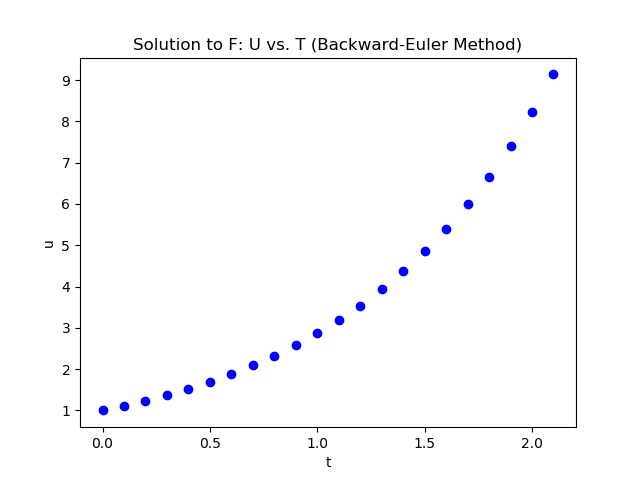
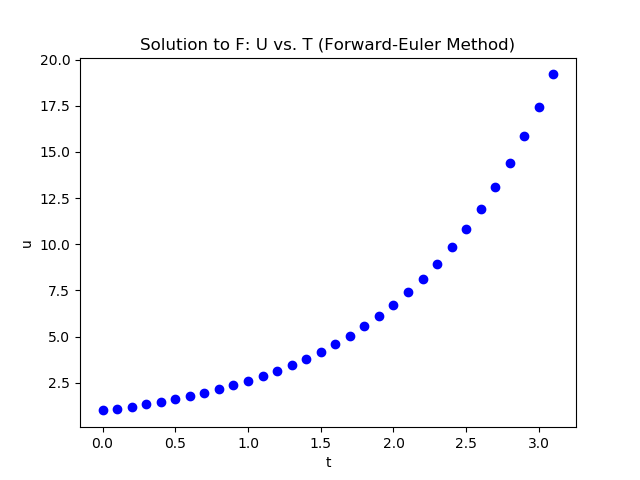
loopable

diff --git a/odesolver_cml_loopable.py b/odesolver_cml_loopable.py
@@ -1,0 +1,135 @@
+'''
+CS 101 James Scholar Project
+Exercise E.4: Solve an ODE specified on the command line
+
+By Kenneth Tochihara
+'''
+
+#------------------------------------------------------------------------------#
+# Libraries utilized                                                           #
+#------------------------------------------------------------------------------#
+from scitools.StringFunction import StringFunction
+from scipy.optimize import newton
+import numpy as np
+import matplotlib.pyplot as plt
+
+
+#------------------------------------------------------------------------------#
+# Constants using in the program                                               #
+#------------------------------------------------------------------------------#
+
+#Establishing method solve types
+methods = {
+    'fe' : "Forward-Euler Method",
+    'mp' : "Midpoint Method",
+    '2rk': "2nd-Order Runge-Kutta Method",
+    '4rk': "4th-Order Runge-Kutta Method",
+    '3ab': "3rd-order Adams-Bashforth Method",
+    'be' : "Backward-Euler Method"
+}
+
+ans = "y"
+
+#------------------------------------------------------------------------------#
+# Defining the functions utilized in this program                              #
+#------------------------------------------------------------------------------#
+
+# Setting functions for the different methods
+def forwardEuler(u0, f):
+    u = [u0]
+    for i in range(len(arrT)-1):
+        u.append(u[i] + dt * float(f(u[i], arrT[i])))
+    return u
+
+def midPoint(u0, f):
+    u = [u0]
+    for i in range(len(arrT)-1):
+        us = u[i] + dt * float(f(u[i], arrT[i]))
+        u.append(u[i] + (0.5 * dt * float(f(u[i], arrT[i]))) + (0.5 * dt * float(f(us, arrT[i+1]))))
+    return u
+
+def rungeKutta2(u0, f):
+    u = [u0]
+    for i in range(len(arrT)-1):
+        k1 = dt * float(f(u[i], arrT[i]))
+        k2 = dt * float(f(u[i] + 0.5 * k1, arrT[i] + 0.5 * dt))
+        u.append(u[i] + k2)
+    return u
+
+def rungeKutta4(u0, f):
+    u = [u0]
+    for i in range(len(arrT)-1):
+        k1 = dt * float(f(u[i], arrT[i]))
+        k2 = dt * float(f(u[i] + 0.5 * k1, arrT[i] + 0.5 * dt))
+        k3 = dt * float(f(u[i] + 0.5 * k2, arrT[i] + 0.5 * dt))
+        k4 = dt * float(f(u[i] + k3, arrT[i] + dt))
+        u.append(u[i] + (1/6) * (k1 + 2*k2 + 2*k3 + k4))
+    return u
+
+def adamBashforth3(u0, f, N):
+    u = [u0]
+    for i in range(len(arrT)-1):
+        v = [u[i]]
+        for j in range(N-1):
+            v.append(u[i] + (1/5) * dt * (float(f(v[j], arrT[i+1])) + float(f(u[i], arrT[i]))))
+        u.append(v[N-1])
+    return u
+
+def backwardEuler(u0, f):
+    def findU(x):
+        return u[i] + f(x, arrT[i]) * dt - x
+
+    u = [u0]
+    for i in range(len(arrT)-1):
+        u.append(newton(findU, u0))
+    return u
+
+while ans == "y":
+
+    # Taking in the values
+    f    = StringFunction(input("f(u, t) =  "), independent_variables=('u','t'))
+    u0   = float(input("u0 =  ")) #initial condition
+    dt   = float(input("dt = "))  #time step
+    T    = float(input("T = "))   #Final time of simulation
+    type = str(input("Solve Method: "))
+
+    #Initializing the u array, arrU and time array, arrT
+    arrU = []
+    currentT = 0
+    arrT = [currentT]
+    while (currentT < T) or (np.isclose(currentT, T)):
+        currentT += dt
+        arrT.append(currentT)
+
+#------------------------------------------------------------------------------#
+# Deciding which method to use (Forward-Euler is default)                      #
+#------------------------------------------------------------------------------#
+
+    if   ('fe'  == type):
+        arrU = forwardEuler(u0, f)
+    elif ('mp'  == type):
+        arrU = midPoint(u0, f)
+    elif ('2rk' == type):
+        arrU = rungeKutta2(u0, f)
+    elif ('4rk' == type):
+        arrU = rungeKutta4(u0, f)
+    elif ('3ab' == type):
+        N = int(input("N = "))
+        arrU = adamBashforth3(u0, f, N)
+    elif ('be' == type):
+        arrU = backwardEuler(u0, f)
+    else:
+        print("Method did not match.")
+
+
+#------------------------------------------------------------------------------#
+# Saving the plot as a picture                                                 #
+#------------------------------------------------------------------------------#
+
+    plt.plot(arrT, arrU, "bo")
+    plt.title("Solution to F: U vs. T (" + methods[type]+ ")")
+    plt.xlabel("t")
+    plt.ylabel("u")
+    plt.savefig('plot.png')
+
+    ans = input("Enter 'y' to continue.")
